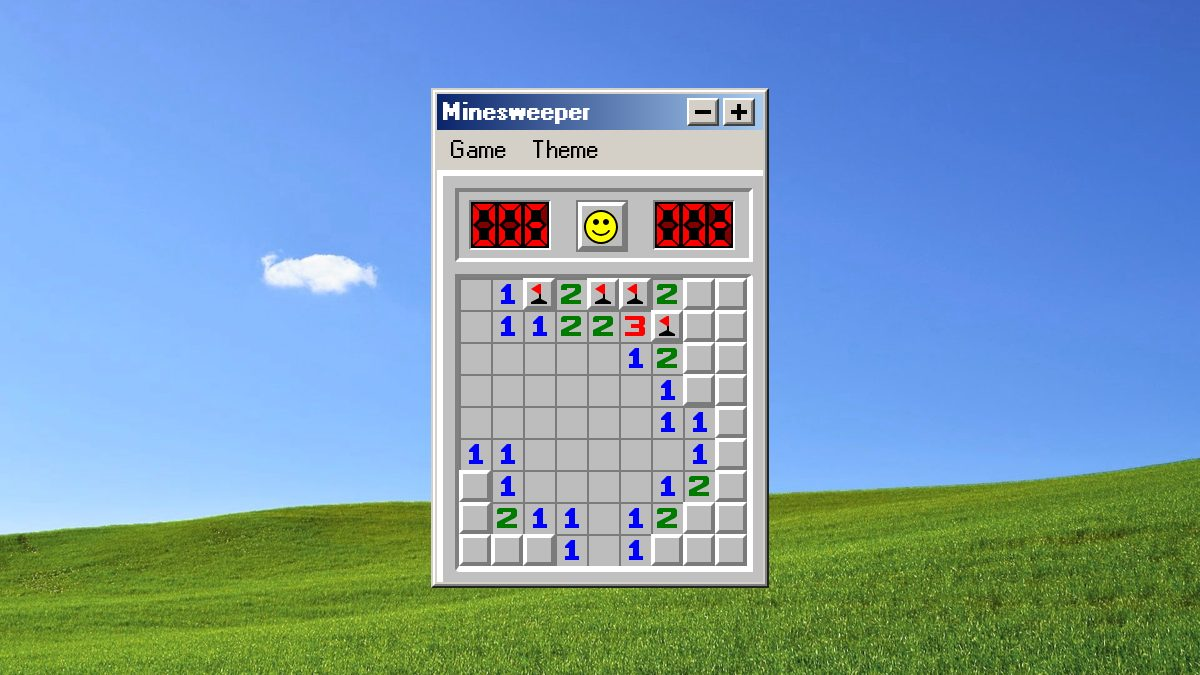
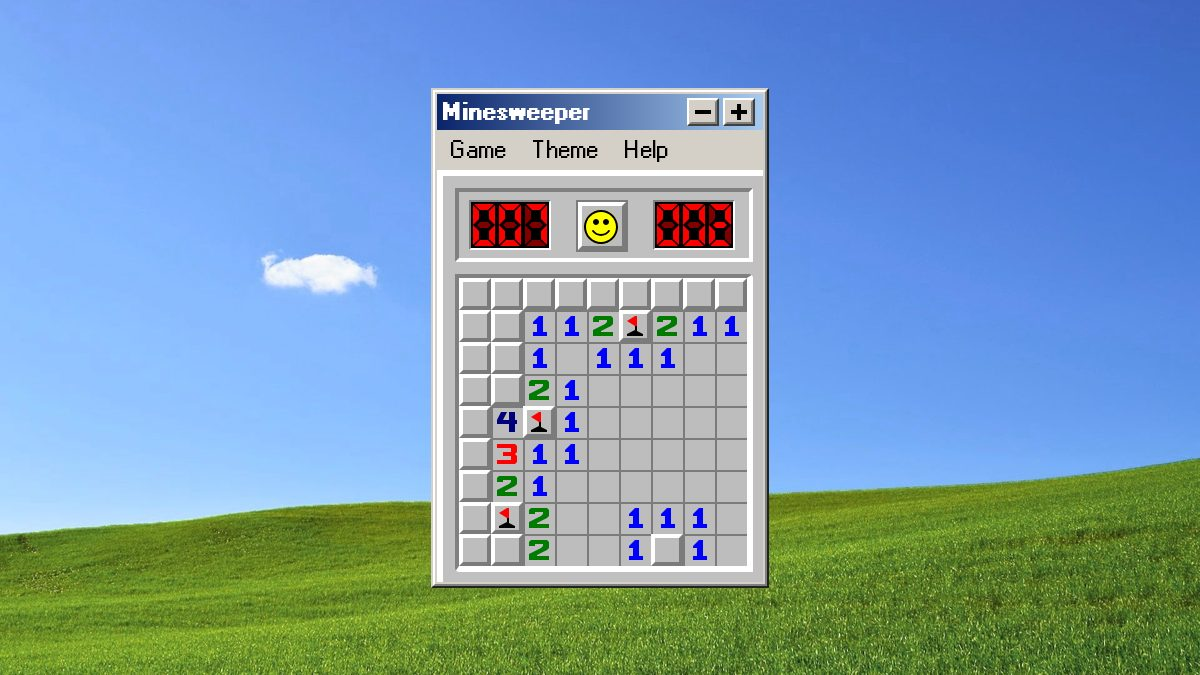
Updates

Changed region(s): [[0.37, 0.4044, 0.6475, 0.84], [0.4317, 0.3111, 0.4625, 0.3733], [0.5242, 0.2178, 0.555, 0.2489]]

diff --git a/assets/app-UHd7D_YL.js b/assets/app-UHd7D_YL.js
@@ -1,0 +1,4 @@
+//#region src/app.jsx?raw
+var app_default = "import { h } from 'hyperapp'\nimport './app.css'\nimport Game, { transposed } from './Game'\nimport Winner from './Winner'\nimport BestTime from './BestTime'\nimport CustomField from './CustomField'\nimport BackgroundSettings from './BackgroundSettings'\nimport About from './About'\nimport { placeMines } from './mines'\nimport { explainChord, findHint, noHint } from './hint'\nimport { load, save, remove } from './storage'\nimport { backgroundFor, configure, defaults, loadSettings, saveSettings } from './backgrounds'\nimport { applyZoom, fitZoom, loadZoom, measureFit, sameSize, saveZoom, stepZoom } from './zoom'\n\nconst levels = {\n  beginner: {\n    level: 'beginner',\n    width: 9,\n    height: 9,\n    mines: 10,\n  },\n  intermediate: {\n    level: 'intermediate',\n    width: 16,\n    height: 16,\n    mines: 40,\n  },\n  expert: {\n    level: 'expert',\n    width: 30,\n    height: 16,\n    mines: 99,\n  },\n  //expert grown by 30% each way at the same mine density\n  extreme: {\n    level: 'extreme',\n    width: 39,\n    height: 21,\n    mines: 169,\n  },\n}\n\nconst levelNames = Object.keys(levels)\n\nconst themes = ['classic', 'synthwave', 'solarized', 'solarized-phosphor', 'matrix', 'nord']\n\nconst createGame = ({ level, width, height, mines }) => {\n  const field = new Array(height)\n  for (let y = 0; y < height; y++) {\n    field[y] = new Array(width)\n    for (let x = 0; x < width; x++) {\n      field[y][x] = {\n        opened: false,\n        mined: false,\n        flag: false,\n        mark: false,\n        num: 0,\n      }\n    }\n  }\n  return {\n    level,\n    width,\n    height,\n    mines,\n    field,\n    left: width * height - mines,\n    pressed: false,\n    pressedX: -1,\n    pressedY: -1,\n    group: false,\n    flags: mines,\n    start: -1,\n    time: 0,\n    raf: null,\n    lose: false,\n    win: false,\n    touch: false,\n    hinted: false,\n    openedAt: { x: -1, y: -1, time: 0 },\n  }\n}\n\nconst openable = (game, x, y) => {\n  const cell = game.field[y][x]\n  if (cell.opened) {\n    let num = 0\n    for (let offsetX = -1; offsetX <= 1; offsetX++) {\n      for (let offsetY = -1; offsetY <= 1; offsetY++) {\n        const dx = offsetX + x\n        const dy = offsetY + y\n        if (dx >= 0 && dy >= 0 && dx < game.width && dy < game.height) {\n          num += game.field[dy][dx].flag ? 1 : 0\n        }\n      }\n    }\n    return num === cell.num\n  }\n  return false\n}\n\nconst revealRange = (x, y, fn) =>\n  fn(x - 1, y - 1) +\n  fn(x - 1, y + 1) +\n  fn(x + 1, y - 1) +\n  fn(x + 1, y + 1) +\n  fn(x - 1, y) +\n  fn(x + 1, y) +\n  fn(x, y - 1) +\n  fn(x, y + 1)\n\nconst customLevel = (data, defaults) => {\n  const width = Math.max(9, Math.min(40, parseInt(data.width, 10) || defaults.width))\n  const height = Math.max(9, Math.min(30, parseInt(data.height, 10) || defaults.height))\n  const mines = parseInt(data.mines, 10) || defaults.mines\n  return {\n    level: 'custom',\n    width,\n    height,\n    mines: Math.max(10, Math.min(Math.floor(width * height * 0.8), mines)),\n  }\n}\n\nconst loadLevel = () => {\n  const level = load('level')\n  if (typeof level !== 'string') return levels.beginner\n  if (levels[level]) return levels[level]\n  const data = level.split(',')\n  return customLevel({ width: data[0], height: data[1], mines: data[2] }, levels.beginner)\n}\n\nconst loadTheme = () => {\n  const theme = load('theme')\n  return themes.includes(theme) ? theme : 'classic'\n}\n\n//best times are kept apart for games played with and without hints\nconst timeKey = (level, hinted) => (hinted ? `${level}Hints` : level)\n\nconst bestTimes = (hinted) =>\n  levelNames.map((level) => {\n    const key = timeKey(level, hinted)\n    return {\n      level,\n      name: load(`${key}Name`) || 'Anonymous',\n      time: Math.min(999, parseInt(load(key), 10) || 0) || 999,\n    }\n  })\n\nconst clearBestTimes = (hinted) => {\n  levelNames.forEach((level) => {\n    const key = timeKey(level, hinted)\n    remove(key)\n    remove(`${key}Name`)\n  })\n  return bestTimes(hinted)\n}\n\nconst prevent = (event) => {\n  event.preventDefault()\n  return false\n}\n\nexport const state = {\n  menu: null,\n  hint: null,\n  game: createGame(loadLevel()),\n  marks: Boolean(load('marks')),\n  safeStart: load('safeStart') !== 'off',\n  noGuess: Boolean(load('noGuess')),\n  theme: loadTheme(),\n  winner: null,\n  bestTime: null,\n  about: false,\n  customField: null,\n  backgrounds: loadSettings(),\n  backgroundSettings: null,\n  zoom: { chosen: loadZoom(), scale: loadZoom(), seen: null },\n  portrait: Boolean(window.matchMedia && matchMedia('(orientation: portrait)').matches),\n}\n\nexport const actions = {\n  init: () => (state, actions) => {\n    window.addEventListener('keydown', actions.press)\n    if (window.matchMedia) {\n      matchMedia('(orientation: portrait)').addEventListener('change', (event) =>\n        actions.setPortrait(event.matches),\n      )\n    }\n  },\n  setPortrait: (portrait) => ({ portrait }),\n  press: (event) => (state, actions) => {\n    //leave typing in a dialog and browser shortcuts alone\n    const typing = ['INPUT', 'SELECT', 'TEXTAREA'].includes(event.target.tagName)\n    if (typing || event.ctrlKey || event.metaKey || event.altKey) return\n    if (event.keyCode === 113 || event.keyCode === 78) {\n      actions.reset()\n    } else if (event.keyCode === 72) {\n      actions.hint()\n    }\n  },\n  reset:\n    (payload) =>\n    ({ game }) => {\n      cancelAnimationFrame(game.raf)\n      const params = (payload && levels[payload.level]) || payload || game\n      save(\n        'level',\n        params.level === 'custom'\n          ? [params.width, params.height, params.mines].join()\n          : params.level,\n      )\n      return {\n        menu: null,\n        hint: null,\n        game: createGame(params),\n      }\n    },\n  hint: () => (state) => {\n    const { game } = state\n    if (game.win || game.lose) return { menu: null }\n    if (game.start < 0) {\n      return { menu: null, hint: noHint('Open a cell first, then ask for a hint.') }\n    }\n    const { field, width, height, flags } = game\n    return {\n      menu: null,\n      hint: findHint({ field, width, height, minesLeft: flags, transposed: transposed(state) }),\n      game: { ...game, hinted: true },\n    }\n  },\n  touch:\n    ({ event, x, y }) =>\n    ({ game }, actions) => {\n      if (game.win || game.lose) return null\n      const rect = event.currentTarget.getBoundingClientRect()\n      const timer = setTimeout(actions.flag, 600)\n      const move = ({ touches }) => {\n        if (\n          !touches ||\n          touches.length !== 1 ||\n          touches[0].clientX < rect.left ||\n          touches[0].clientX > rect.right ||\n          touches[0].clientY < rect.top ||\n          touches[0].clientY > rect.bottom\n        ) {\n          clearTimeout(timer)\n          actions.move({ x: -1, y: -1 })\n        }\n      }\n      const stop = ({ changedTouches }) => {\n        clearTimeout(timer)\n        window.removeEventListener('scroll', move)\n        window.removeEventListener('touchmove', move)\n        window.removeEventListener('touchend', stop)\n        window.removeEventListener('touchcancel', stop)\n        move({ touches: changedTouches })\n        actions.up()\n      }\n      window.addEventListener('scroll', move)\n      window.addEventListener('touchmove', move)\n      window.addEventListener('touchend', stop)\n      window.addEventListener('touchcancel', stop)\n      return {\n        game: {\n          ...game,\n          pressed: true,\n          pressedX: x,\n          pressedY: y,\n          group: event.shiftKey || openable(game, x, y),\n          touch: true,\n        },\n      }\n    },\n  flag:\n    () =>\n    ({ game, marks }) => {\n      const { pressedX, pressedY, field, flags } = game\n      if (pressedX < 0 || pressedY < 0) return null\n      const cell = field[pressedY][pressedX]\n      if (cell.opened) return null\n      const nextField = game.field.slice()\n      nextField[pressedY] = nextField[pressedY].slice()\n      const nextCell = {\n        ...cell,\n        flag: marks ? !cell.mark && !cell.flag : !cell.flag,\n        mark: marks && cell.flag,\n      }\n      nextField[pressedY][pressedX] = nextCell\n      const mines = cell.flag === nextCell.flag ? flags : flags + (nextCell.flag ? -1 : 1)\n      return {\n        hint: null,\n        game: {\n          ...game,\n          field: nextField,\n          flags: mines,\n          pressedX: -1,\n          pressedY: -1,\n        },\n      }\n    },\n  down:\n    ({ event, x, y }) =>\n    ({ game, marks }, actions) => {\n      if (game.touch || event.button > 2 || game.win || game.lose) return null\n      window.addEventListener('mouseup', actions.up)\n      let { field, flags } = game\n      const cell = field[y][x]\n      if (!game.pressed && event.button === 2 && !field[y][x].opened) {\n        field = field.slice()\n        field[y] = field[y].slice()\n        const nextCell = {\n          ...cell,\n          flag: marks ? !cell.mark && !cell.flag : !cell.flag,\n          mark: marks && cell.flag,\n        }\n        field[y][x] = nextCell\n        flags = cell.flag === nextCell.flag ? flags : flags + (nextCell.flag ? -1 : 1)\n      }\n      return {\n        //a new flag changes the board, so an explanation of the old one goes\n        ...(field !== game.field && { hint: null }),\n        game: {\n          ...game,\n          field,\n          pressed: event.button !== 2,\n          pressedX: x,\n          pressedY: y,\n          group: event.shiftKey || event.buttons > 2,\n          flags,\n        },\n      }\n    },\n  chord:\n    ({ x, y }) =>\n    ({ game }, actions) => {\n      if (game.win || game.lose) return null\n      if (!openable(game, x, y)) {\n        //the first click of a double click on a hidden cell just opened it, that is no failed chord\n        const { openedAt } = game\n        const fresh =\n          openedAt.x === x && openedAt.y === y && performance.now() - openedAt.time < 500\n        return fresh ? null : { hint: explainChord(game, x, y) }\n      }\n      actions.aim({ x, y })\n      actions.up()\n      return null\n    },\n  aim:\n    ({ x, y }) =>\n    ({ game }) => ({\n      game: { ...game, pressed: false, pressedX: x, pressedY: y, group: true },\n    }),\n  move:\n    ({ x, y }) =>\n    ({ game }) => {\n      if (x === game.pressedX && y === game.pressedY) return null\n      return {\n        game: {\n          ...game,\n          pressedX: x,\n          pressedY: y,\n        },\n      }\n    },\n  up:\n    () =>\n    ({ game, safeStart, noGuess }, actions) => {\n      window.removeEventListener('mouseup', actions.up)\n      const { width, height, pressedX, pressedY } = game\n      if (game.win || game.lose || pressedX < 0 || pressedY < 0) {\n        if (!game.pressed && !game.group) return null\n        return { game: { ...game, pressed: false, group: false } }\n      }\n      const field = game.field.map((row) => row.map((c) => ({ ...c })))\n      const outBounds = (x, y) => x < 0 || y < 0 || x >= width || y >= height\n      const calcNear = (x, y, fn) => {\n        let num = 0\n        for (let offsetX = -1; offsetX <= 1; offsetX++) {\n          for (let offsetY = -1; offsetY <= 1; offsetY++) {\n            if (!outBounds(offsetX + x, offsetY + y)) {\n              num += fn(field[offsetY + y][offsetX + x]) ? 1 : 0\n            }\n          }\n        }\n        return num\n      }\n\n      let { left, lose } = game\n      const reveal = (x, y) => {\n        if (outBounds(x, y)) return 0\n        const c = field[y][x]\n        if (c.opened || c.flag) return 0\n        c.opened = true\n        c.num = calcNear(x, y, (i) => i.mined)\n        if (c.mined) lose = true\n        if (c.num) return 1\n        return revealRange(x, y, reveal) + 1\n      }\n\n      //mines are only placed once a cell is actually opened\n      //a flag or chord first must not pick the start cell for safe start or no guessing\n      const begin = game.start < 0 && game.pressed && !game.group && !field[pressedY][pressedX].flag\n      if (begin) {\n        const { mined } = placeMines({\n          width,\n          height,\n          mines: game.mines,\n          x: pressedX,\n          y: pressedY,\n          safe: safeStart,\n          noGuess,\n        })\n        field.forEach((row, y) => row.forEach((c, x) => (c.mined = mined[y * width + x] === 1)))\n        game.raf = requestAnimationFrame(actions.tick)\n      }\n\n      const cell = field[pressedY][pressedX]\n      const wasOpened = cell.opened\n      let chordHint = null\n\n      if (game.group) {\n        if (cell.opened) {\n          const flags = calcNear(pressedX, pressedY, (c) => c.flag)\n          if (flags === cell.num) {\n            left -= revealRange(pressedX, pressedY, reveal)\n          } else {\n            chordHint = explainChord({ field, width, height }, pressedX, pressedY)\n          }\n        }\n      } else if (game.pressed) {\n        //on touch screens a tap on a number is the chord\n        if (game.touch && wasOpened) {\n          chordHint = explainChord({ field, width, height }, pressedX, pressedY)\n        }\n        left -= reveal(pressedX, pressedY)\n      }\n\n      const win = left <= 0\n      if (win || lose) {\n        cancelAnimationFrame(game.raf)\n        if (!lose) actions.win()\n      }\n\n      //an explanation stays until the board changes, so a click that does nothing never moves the board\n      //otherwise the second click of a double click could land on another cell\n      const changed = left !== game.left || lose || begin\n      return {\n        ...((chordHint || changed) && { hint: chordHint }),\n        game: {\n          ...game,\n          left,\n          field,\n          openedAt:\n            !wasOpened && cell.opened\n              ? { x: pressedX, y: pressedY, time: performance.now() }\n              : game.openedAt,\n          pressed: false,\n          group: false,\n          start: begin ? performance.now() : game.start,\n          time: begin ? 1 : game.time,\n          lose,\n          win,\n          touch: false,\n        },\n      }\n    },\n  tick:\n    (now) =>\n    ({ game }, actions) => {\n      game.raf = requestAnimationFrame(actions.tick)\n      const next = Math.floor((now - game.start) / 1000) + 1\n      if (game.time === next) return null\n      return { game: { ...game, time: next } }\n    },\n  win:\n    () =>\n    ({ game }) => {\n      if (game.level === 'custom') return null\n      const time = parseInt(load(timeKey(game.level, game.hinted)), 10)\n      if (time && time <= game.time) return null\n      return {\n        winner: {\n          name: 'Anonymous',\n          time: game.time,\n          level: game.level,\n          hinted: game.hinted,\n        },\n      }\n    },\n  changeWinner:\n    (payload) =>\n    ({ winner }) => ({\n      winner: { ...winner, ...payload },\n    }),\n  submitBestTime:\n    (event) =>\n    ({ winner }, actions) => {\n      event.preventDefault()\n      const key = timeKey(winner.level, winner.hinted)\n      save(key, winner.time)\n      save(`${key}Name`, winner.name.trim())\n      actions.toggleBestTime()\n      actions.setBestTimeTab(winner.hinted ? 'hinted' : 'clean')\n      return { winner: null }\n    },\n  toggleAbout:\n    () =>\n    ({ about }) => ({ menu: null, about: !about }),\n  toggleBestTime:\n    () =>\n    ({ bestTime }) => ({\n      menu: null,\n      bestTime: bestTime\n        ? null\n        : { tab: 'clean', clean: bestTimes(false), hinted: bestTimes(true) },\n    }),\n  setBestTimeTab: (tab) => (state) =>\n    state.bestTime ? { bestTime: { ...state.bestTime, tab } } : null,\n  resetBestTime:\n    () =>\n    ({ bestTime }) => ({\n      bestTime: { ...bestTime, [bestTime.tab]: clearBestTimes(bestTime.tab === 'hinted') },\n    }),\n  toggleCustomField:\n    () =>\n    ({ game, customField }) => ({\n      menu: null,\n      customField: customField\n        ? null\n        : {\n            width: String(game.width),\n            height: String(game.height),\n            mines: String(game.mines),\n          },\n    }),\n  changeCustomField:\n    (payload) =>\n    ({ customField }) => ({\n      customField: { ...customField, ...payload },\n    }),\n  submitCustomField:\n    (event) =>\n    ({ game, customField }, actions) => {\n      event.preventDefault()\n      actions.reset(customLevel(customField, game))\n      return { customField: null }\n    },\n  toggleSafeStart: () => (state) => {\n    const safeStart = !state.safeStart\n    save('safeStart', safeStart ? '' : 'off')\n    return { menu: null, safeStart }\n  },\n  toggleNoGuess: () => (state) => {\n    const noGuess = !state.noGuess\n    save('noGuess', noGuess ? 'yes' : '')\n    return { menu: null, noGuess }\n  },\n  toggleMarks: () => (state) => {\n    const marks = !state.marks\n    save('marks', marks ? 'yes' : '')\n    return {\n      menu: null,\n      marks,\n    }\n  },\n  //the dialog edits a draft that previews live, cancel puts the saved settings back\n  toggleBackgroundSettings:\n    () =>\n    ({ theme, backgrounds, backgroundSettings }) => {\n      if (backgroundSettings) {\n        configure(backgroundSettings.id, backgrounds[backgroundSettings.id])\n        return { backgroundSettings: null }\n      }\n      const id = backgroundFor(theme)\n      return { menu: null, backgroundSettings: id && { id, draft: { ...backgrounds[id] } } }\n    },\n  changeBackgroundSettings:\n    (values) =>\n    ({ backgroundSettings: { id, draft } }) => {\n      const next = { ...draft, ...values }\n      configure(id, next)\n      return { backgroundSettings: { id, draft: next } }\n    },\n  resetBackgroundSettings: () => (state, actions) =>\n    actions.changeBackgroundSettings(defaults(state.backgroundSettings.id)),\n  submitBackgroundSettings:\n    (event) =>\n    ({ backgrounds, backgroundSettings: { id, draft } }) => {\n      event.preventDefault()\n      const next = { ...backgrounds, [id]: draft }\n      saveSettings(next)\n      return { backgrounds: next, backgroundSettings: null }\n    },\n  //the zoom picked with the title bar buttons, shrunk when the window would not fit\n  //only a new level, theme or browser size refits, so zooming in past the fit can scroll\n  fit:\n    () =>\n    ({ zoom }) => {\n      const { fit, size } = measureFit(zoom.scale)\n      if (sameSize(size, zoom.seen)) return null\n      const scale = fitZoom(zoom.chosen, fit)\n      applyZoom(scale)\n      return { zoom: { ...zoom, scale, seen: size } }\n    },\n  //step in or out from the size shown, or back to 100% (which still fits the window)\n  zoom:\n    (direction) =>\n    ({ zoom }) => {\n      const { fit, size } = measureFit(zoom.scale)\n      const chosen = direction ? stepZoom(zoom.scale, direction) : 1\n      const scale = direction ? chosen : fitZoom(chosen, fit)\n      saveZoom(chosen)\n      applyZoom(scale)\n      return { zoom: { chosen, scale, seen: size } }\n    },\n  setTheme: (theme) => () => {\n    save('theme', theme)\n    document.documentElement.dataset.theme = theme\n    return {\n      menu: null,\n      theme,\n    }\n  },\n  toggleMenu:\n    (event) =>\n    ({ menu }) => {\n      const { name } = event.currentTarget.dataset\n      if (event.type === 'click') {\n        return { menu: menu && menu[name] ? null : { [name]: true } }\n      }\n      if (event.type === 'mouseenter') {\n        return menu ? { menu: { [name]: true } } : null\n      }\n      if (event.type === 'focusout' && !event.currentTarget.contains(event.relatedTarget)) {\n        return { menu: null }\n      }\n      return null\n    },\n}\n\nexport const view = (state, actions) => (\n  <main oncontextmenu={prevent} ondragstart={prevent} oncreate={actions.init}>\n    {state.game && <Game key=\"a\" state={state} actions={actions} />}\n    {state.winner && <Winner key=\"b\" state={state.winner} actions={actions} />}\n    {state.bestTime && <BestTime key=\"c\" state={state.bestTime} actions={actions} />}\n    {state.customField && <CustomField key=\"d\" state={state.customField} actions={actions} />}\n    {state.backgroundSettings && (\n      <BackgroundSettings key=\"e\" state={state.backgroundSettings} actions={actions} />\n    )}\n    {state.about && <About key=\"f\" actions={actions} />}\n  </main>\n)\n";
+//#endregion
+export { app_default as default };

diff --git a/assets/app.js b/assets/app.js
@@ -1310,6 +1310,7 @@ var rgb = (hex) => [
 var css = ([r, g, b]) => `rgb(${Math.round(r)},${Math.round(g)},${Math.round(b)})`;
 var brightness = ([r, g, b]) => Math.max(r, g, b);
 var sources = /* #__PURE__ */ Object.assign({
+	"../About.jsx": () => __vitePreload(() => import("./About-D9CbMnRN.js").then((m) => m["default"]), [], import.meta.url),
 	"../BackgroundSettings.jsx": () => __vitePreload(() => import("./BackgroundSettings-D3giHqNw.js").then((m) => m["default"]), [], import.meta.url),
 	"../BestTime.jsx": () => __vitePreload(() => import("./BestTime-Ce22rTOt.js").then((m) => m["default"]), [], import.meta.url),
 	"../Button.jsx": () => __vitePreload(() => import("./Button-C8D8-FiQ.js").then((m) => m["default"]), [], import.meta.url),
@@ -1317,13 +1318,13 @@ var sources = /* #__PURE__ */ Object.assign({
 	"../CustomField.jsx": () => __vitePreload(() => import("./CustomField-DS_mYmEf.js").then((m) => m["default"]), [], import.meta.url),
 	"../Dialog.jsx": () => __vitePreload(() => import("./Dialog-BXD_Wy5m.js").then((m) => m["default"]), [], import.meta.url),
 	"../Digit.jsx": () => __vitePreload(() => import("./Digit-B5rGRU4Q.js").then((m) => m["default"]), [], import.meta.url),
-	"../Game.jsx": () => __vitePreload(() => import("./Game-TTccPjEd.js").then((m) => m["default"]), [], import.meta.url),
+	"../Game.jsx": () => __vitePreload(() => import("./Game-rnd9BPSW.js").then((m) => m["default"]), [], import.meta.url),
 	"../Input.jsx": () => __vitePreload(() => import("./Input-BH3afC1u.js").then((m) => m["default"]), [], import.meta.url),
-	"../Menu.jsx": () => __vitePreload(() => import("./Menu-CSkFSVlA.js").then((m) => m["default"]), [], import.meta.url),
+	"../Menu.jsx": () => __vitePreload(() => import("./Menu-CM-8ws1g.js").then((m) => m["default"]), [], import.meta.url),
 	"../Overlay.jsx": () => __vitePreload(() => import("./Overlay-BtrJ3RPa.js").then((m) => m["default"]), [], import.meta.url),
 	"../Play.jsx": () => __vitePreload(() => import("./Play-DPV83WcB.js").then((m) => m["default"]), [], import.meta.url),
 	"../Winner.jsx": () => __vitePreload(() => import("./Winner-BcLjHZfV.js").then((m) => m["default"]), [], import.meta.url),
-	"../app.jsx": () => __vitePreload(() => import("./app-nchCqb_E.js").then((m) => m["default"]), [], import.meta.url),
+	"../app.jsx": () => __vitePreload(() => import("./app-UHd7D_YL.js").then((m) => m["default"]), [], import.meta.url),
 	"./hill.js": () => __vitePreload(() => import("./hill-z0PhJZqK.js").then((m) => m["default"]), [], import.meta.url),
 	"./index.js": () => __vitePreload(() => import("./backgrounds-y8fCa31h.js").then((m) => m["default"]), [], import.meta.url),
 	"./matrix.js": () => __vitePreload(() => import("./matrix-D_vYPxu0.js").then((m) => m["default"]), [], import.meta.url),
@@ -2155,6 +2156,14 @@ var Menu = ({ state, actions }) => /* @__PURE__ */ h("ul", {
 }), backgroundFor(state.theme) && /* @__PURE__ */ h(Separator, null), backgroundFor(state.theme) && /* @__PURE__ */ h(SubMenuItem, {
 	name: "Background Settings...",
 	onClick: actions.toggleBackgroundSettings
+})), /* @__PURE__ */ h(MenuItem, {
+	name: "Help",
+	type: "help",
+	active: state.menu,
+	onChange: actions.toggleMenu
+}, /* @__PURE__ */ h(SubMenuItem, {
+	name: "About Minesweeper Plus...",
+	onClick: actions.toggleAbout
 })));
 var Digit_module_default = {
 	root: "Digit_root",
@@ -2425,7 +2434,7 @@ var Cell = ({ x, y, pressed, pressedX, pressedY, group, opened, mined, flag, mar
 })));
 //#endregion
 //#region src/zoom.js
-var root$6 = document.documentElement;
+var root$7 = document.documentElement;
 var steps = [
 	.5,
 	.625,
@@ -2447,7 +2456,7 @@ var loadZoom = () => {
 };
 var stepZoom = (scale, direction) => direction > 0 ? steps.find((step) => step > scale + .001) ?? steps[steps.length - 1] : steps.findLast((step) => step < scale - .001) ?? steps[0];
 var fitZoom = (chosen, fit) => fit >= chosen ? chosen : Math.min(chosen, Math.max(MIN_FIT, Math.floor(fit * 50) / 50));
-var applyZoom = (scale) => root$6.style.setProperty("--scale", scale);
+var applyZoom = (scale) => root$7.style.setProperty("--scale", scale);
 var saveZoom = (scale) => save("scale", scale);
 var gameWindow = null;
 var measureFit = (scale) => {
@@ -2510,7 +2519,7 @@ var rowsOf = (state) => {
 };
 var Game = ({ key, state, actions }) => /* @__PURE__ */ h(Dialog, {
 	key,
-	title: "Minesweeper",
+	title: state.theme === "classic" ? "Minesweeper" : "Minesweeper Plus",
 	titleHint: "Double-click for 100% zoom",
 	onTitleDoubleClick: () => actions.zoom(0),
 	controls: /* @__PURE__ */ h(Zoom, {
@@ -2758,6 +2767,32 @@ var BackgroundSettings = ({ key, state, actions }) => {
 		onClick: actions.resetBackgroundSettings
 	}, /* @__PURE__ */ h("span", { class: BackgroundSettings_module_default.button }, "Defaults"))))));
 };
+var About_module_default = {
+	root: "About_root",
+	name: "About_name",
+	link: "About_link",
+	footer: "About_footer",
+	button: "About_button"
+};
+//#endregion
+//#region src/About.jsx
+var Link = ({ href }, children) => /* @__PURE__ */ h("a", {
+	class: About_module_default.link,
+	href,
+	target: "_blank",
+	rel: "noopener noreferrer"
+}, children);
+var About = ({ key, actions }) => /* @__PURE__ */ h(Overlay, {
+	key,
+	onKeyDown: (event) => event.keyCode === 27 && actions.toggleAbout()
+}, /* @__PURE__ */ h(Dialog, {
+	title: "About Minesweeper Plus",
+	onClose: actions.toggleAbout
+}, /* @__PURE__ */ h("div", { class: About_module_default.root }, /* @__PURE__ */ h("p", { class: About_module_default.name }, "Minesweeper Plus"), /* @__PURE__ */ h("p", null, "A Windows style minesweeper with boards that never need a guess, hints that explain their reasoning, zoom, and animated themes ported from xscreensaver."), /* @__PURE__ */ h("p", null, "Based on ", /* @__PURE__ */ h(Link, { href: "https://github.com/frenzzy/minesweeper" }, "Minesweeper"), " by Vladimir Kutepov, extended by fexofenadine."), /* @__PURE__ */ h("p", null, "Uses canvas ports of xscreensaver's GLMatrix, Substrate, Truchet and Phosphor under the xscreensaver licence, fonts under the SIL Open Font License and LGPL 2.1, photos from Unsplash and CC0 photos from Wikimedia Commons, and the SynthWave '84, Solarized and Nord colour schemes. Released under the MIT licence; full credits are in the README."), /* @__PURE__ */ h("p", null, /* @__PURE__ */ h(Link, { href: "https://github.com/fexofenadine/minesweeperplus" }, "github.com/fexofenadine/minesweeperplus")), /* @__PURE__ */ h("div", { class: About_module_default.footer }, /* @__PURE__ */ h(Button, {
+	type: "button",
+	onClick: actions.toggleAbout,
+	onCreate: (el) => el.focus()
+}, /* @__PURE__ */ h("span", { class: About_module_default.button }, "OK"))))));
 //#endregion
 //#region src/mines.js
 var neighbourCache = /* @__PURE__ */ new Map();
@@ -3154,6 +3189,7 @@ var state = {
 	theme: loadTheme(),
 	winner: null,
 	bestTime: null,
+	about: false,
 	customField: null,
 	backgrounds: loadSettings(),
 	backgroundSettings: null,
@@ -3456,6 +3492,10 @@ var actions = {
 		actions.setBestTimeTab(winner.hinted ? "hinted" : "clean");
 		return { winner: null };
 	},
+	toggleAbout: () => ({ about }) => ({
+		menu: null,
+		about: !about
+	}),
 	toggleBestTime: () => ({ bestTime }) => ({
 		menu: null,
 		bestTime: bestTime ? null : {
@@ -3613,6 +3653,9 @@ var view = (state, actions) => /* @__PURE__ */ h("main", {
 }), state.backgroundSettings && /* @__PURE__ */ h(BackgroundSettings, {
 	key: "e",
 	state: state.backgroundSettings,
+	actions
+}), state.about && /* @__PURE__ */ h(About, {
+	key: "f",
 	actions
 }));
 //#endregion

diff --git a/assets/Menu-CM-8ws1g.js b/assets/Menu-CM-8ws1g.js
@@ -1,0 +1,4 @@
+//#region src/Menu.jsx?raw
+var Menu_default = "import { h } from 'hyperapp'\nimport s from './Menu.module.css'\nimport { backgroundFor } from './backgrounds'\n\nconst SubMenuItem = ({ key, name, hotKey, checked, onClick }, children) => (\n  <li key={key} class={s.item}>\n    <button type=\"button\" class={s.option} tabindex={-1} onclick={onClick}>\n      {checked && (\n        <svg class={s.check} width=\"7\" height=\"7\">\n          <path d=\"M0 4.5L2.5 7 7 2.5V0L2.5 4.5 0 2v2.5z\" />\n        </svg>\n      )}\n      {name}\n      {hotKey && <span class={s.hotKey}>{hotKey}</span>}\n    </button>\n    {children.length > 0 && (\n      <div class={s.menu}>\n        <ul class={s.list}>{children}</ul>\n      </div>\n    )}\n  </li>\n)\n\nconst MenuItem = ({ key, name, type, active, onChange }, children) => (\n  <li key={key} class={active && active[type] ? s.columnActive : s.column}>\n    <button\n      type=\"button\"\n      class={s.button}\n      tabindex={-1}\n      data-name={type}\n      onclick={onChange}\n      onmouseenter={onChange}\n    >\n      {name}\n    </button>\n    {children.length > 0 && (\n      <div class={s.menu}>\n        <ul class={s.list}>{children}</ul>\n      </div>\n    )}\n  </li>\n)\n\nconst Separator = () => <li class={s.separator} />\n\nconst Menu = ({ state, actions }) => (\n  <ul class={s.root} tabindex={-1} onfocusout={actions.toggleMenu}>\n    <MenuItem name=\"Game\" type=\"game\" active={state.menu} onChange={actions.toggleMenu}>\n      <SubMenuItem name=\"New\" hotKey=\"F2\" onClick={() => actions.reset()} />\n      <SubMenuItem name=\"Hint\" hotKey=\"H\" onClick={() => actions.hint()} />\n      <Separator />\n      <SubMenuItem\n        name=\"Beginner\"\n        checked={state.game.level === 'beginner'}\n        onClick={() => actions.reset({ level: 'beginner' })}\n      />\n      <SubMenuItem\n        name=\"Intermediate\"\n        checked={state.game.level === 'intermediate'}\n        onClick={() => actions.reset({ level: 'intermediate' })}\n      />\n      <SubMenuItem\n        name=\"Expert\"\n        checked={state.game.level === 'expert'}\n        onClick={() => actions.reset({ level: 'expert' })}\n      />\n      <SubMenuItem\n        name=\"Extreme\"\n        checked={state.game.level === 'extreme'}\n        onClick={() => actions.reset({ level: 'extreme' })}\n      />\n      <SubMenuItem\n        name=\"Custom...\"\n        checked={state.game.level === 'custom'}\n        onClick={actions.toggleCustomField}\n      />\n      <Separator />\n      <SubMenuItem name=\"Marks (?)\" checked={state.marks} onClick={actions.toggleMarks} />\n      <SubMenuItem\n        name=\"Safe First Click\"\n        checked={state.safeStart || state.noGuess}\n        onClick={actions.toggleSafeStart}\n      />\n      <SubMenuItem name=\"No Guessing\" checked={state.noGuess} onClick={actions.toggleNoGuess} />\n      <Separator />\n      <SubMenuItem name=\"Best Times...\" onClick={actions.toggleBestTime} />\n    </MenuItem>\n    <MenuItem name=\"Theme\" type=\"theme\" active={state.menu} onChange={actions.toggleMenu}>\n      <SubMenuItem\n        name=\"Classic\"\n        checked={state.theme === 'classic'}\n        onClick={() => actions.setTheme('classic')}\n      />\n      <SubMenuItem\n        name=\"Synthwave\"\n        checked={state.theme === 'synthwave'}\n        onClick={() => actions.setTheme('synthwave')}\n      />\n      <SubMenuItem\n        name=\"Solarized Truchet\"\n        checked={state.theme === 'solarized'}\n        onClick={() => actions.setTheme('solarized')}\n      />\n      <SubMenuItem\n        name=\"Solarized Phosphor\"\n        checked={state.theme === 'solarized-phosphor'}\n        onClick={() => actions.setTheme('solarized-phosphor')}\n      />\n      <SubMenuItem\n        name=\"Matrix\"\n        checked={state.theme === 'matrix'}\n        onClick={() => actions.setTheme('matrix')}\n      />\n      <SubMenuItem\n        name=\"Nord\"\n        checked={state.theme === 'nord'}\n        onClick={() => actions.setTheme('nord')}\n      />\n      {backgroundFor(state.theme) && <Separator />}\n      {backgroundFor(state.theme) && (\n        <SubMenuItem name=\"Background Settings...\" onClick={actions.toggleBackgroundSettings} />\n      )}\n    </MenuItem>\n    <MenuItem name=\"Help\" type=\"help\" active={state.menu} onChange={actions.toggleMenu}>\n      <SubMenuItem name=\"About Minesweeper Plus...\" onClick={actions.toggleAbout} />\n    </MenuItem>\n  </ul>\n)\n\nexport default Menu\n";
+//#endregion
+export { Menu_default as default };

diff --git a/assets/Game-rnd9BPSW.js b/assets/Game-rnd9BPSW.js
@@ -1,0 +1,4 @@
+//#region src/Game.jsx?raw
+var Game_default = "import { h } from 'hyperapp'\nimport s from './Game.module.css'\nimport Dialog from './Dialog'\nimport Menu from './Menu'\nimport Digit from './Digit'\nimport Play from './Play'\nimport Cell from './Cell'\nimport Button from './Button'\nimport { watchWindow } from './zoom'\n\n//title bar zoom buttons in place of a resize grip\nconst Zoom = ({ scale, onZoom }) => [\n  <Button tabIndex={-1} title=\"Zoom out\" disabled={scale <= 0.5} onClick={() => onZoom(-1)}>\n    <svg width=\"13\" height=\"11\">\n      <path d=\"M3 5h8v2H3z\" />\n    </svg>\n  </Button>,\n  <Button tabIndex={-1} title=\"Zoom in\" disabled={scale >= 4} onClick={() => onZoom(1)}>\n    <svg width=\"13\" height=\"11\">\n      <path d=\"M6 2h2v3h3v2H8v3H6V7H3V5h3z\" />\n    </svg>\n  </Button>,\n]\n\n//a wide board on a portrait screen is shown transposed, columns as rows, so it suits the screen\n//neighbours stay neighbours, so only the view changes and cells keep their own x and y\nexport const transposed = ({ portrait, game }) => portrait && game.width > game.height\n\nconst rowsOf = (state) => {\n  const { field } = state.game\n  if (!transposed(state)) return field.map((row, y) => row.map((cell, x) => ({ cell, x, y })))\n  return field[0].map((_, x) => field.map((row, y) => ({ cell: row[x], x, y })))\n}\n\nconst Game = ({ key, state, actions }) => (\n  <Dialog\n    key={key}\n    title={state.theme === 'classic' ? 'Minesweeper' : 'Minesweeper Plus'}\n    titleHint=\"Double-click for 100% zoom\"\n    onTitleDoubleClick={() => actions.zoom(0)}\n    controls={<Zoom scale={state.zoom.scale} onZoom={actions.zoom} />}\n    onCreate={(dialog) => {\n      watchWindow(dialog, actions.fit)\n      actions.fit()\n    }}\n  >\n    <Menu state={state} actions={actions} />\n    <div class={s.root}>\n      <div class={s.scoreboard}>\n        <Digit value={state.game.flags} />\n        <Play\n          pressed={state.game.pressed}\n          lose={state.game.lose}\n          win={state.game.win}\n          onReset={actions.reset}\n        />\n        <Digit value={state.game.time} />\n      </div>\n      <div class={state.game.lose ? s.fieldLost : s.field}>\n        {rowsOf(state).map((row) => (\n          <div class={state.game.win || state.game.lose ? s.inactive : s.active}>\n            {row.map(({ cell, x, y }) => (\n              <Cell\n                x={x}\n                y={y}\n                pressed={state.game.pressed}\n                pressedX={state.game.pressedX}\n                pressedY={state.game.pressedY}\n                group={state.game.group}\n                opened={cell.opened}\n                mined={cell.mined}\n                flag={cell.flag}\n                mark={cell.mark}\n                num={cell.num}\n                hint={state.hint && state.hint.marks[y * state.game.width + x]}\n                lose={state.game.lose}\n                onDown={actions.down}\n                onMove={actions.move}\n                onTouch={actions.touch}\n                onChord={actions.chord}\n              />\n            ))}\n          </div>\n        ))}\n      </div>\n      {state.hint && (\n        <p class={s.hint} role=\"status\">\n          {state.hint.text}\n        </p>\n      )}\n    </div>\n  </Dialog>\n)\n\nexport default Game\n";
+//#endregion
+export { Game_default as default };

diff --git a/assets/About-D9CbMnRN.js b/assets/About-D9CbMnRN.js
@@ -1,0 +1,4 @@
+//#region src/About.jsx?raw
+var About_default = "import { h } from 'hyperapp'\nimport s from './About.module.css'\nimport Overlay from './Overlay'\nimport Dialog from './Dialog'\nimport Button from './Button'\n\nconst Link = ({ href }, children) => (\n  <a class={s.link} href={href} target=\"_blank\" rel=\"noopener noreferrer\">\n    {children}\n  </a>\n)\n\nconst About = ({ key, actions }) => (\n  <Overlay key={key} onKeyDown={(event) => event.keyCode === 27 && actions.toggleAbout()}>\n    <Dialog title=\"About Minesweeper Plus\" onClose={actions.toggleAbout}>\n      <div class={s.root}>\n        <p class={s.name}>Minesweeper Plus</p>\n        <p>\n          A Windows style minesweeper with boards that never need a guess, hints that explain their\n          reasoning, zoom, and animated themes ported from xscreensaver.\n        </p>\n        <p>\n          Based on <Link href=\"https://github.com/frenzzy/minesweeper\">Minesweeper</Link> by\n          Vladimir Kutepov, extended by fexofenadine.\n        </p>\n        <p>\n          Uses canvas ports of xscreensaver's GLMatrix, Substrate, Truchet and Phosphor under the\n          xscreensaver licence, fonts under the SIL Open Font License and LGPL 2.1, photos from\n          Unsplash and CC0 photos from Wikimedia Commons, and the SynthWave '84, Solarized and Nord\n          colour schemes. Released under the MIT licence; full credits are in the README.\n        </p>\n        <p>\n          <Link href=\"https://github.com/fexofenadine/minesweeperplus\">\n            github.com/fexofenadine/minesweeperplus\n          </Link>\n        </p>\n        <div class={s.footer}>\n          <Button type=\"button\" onClick={actions.toggleAbout} onCreate={(el) => el.focus()}>\n            <span class={s.button}>OK</span>\n          </Button>\n        </div>\n      </div>\n    </Dialog>\n  </Overlay>\n)\n\nexport default About\n";
+//#endregion
+export { About_default as default };

diff --git a/assets/app.css b/assets/app.css
@@ -1483,3 +1483,32 @@ main::before {
   width: 60px;
   padding: 4px 3px 3px 4px;
 }
+.About_root {
+  max-width: 340px;
+  padding: 10px 14px 12px;
+}
+
+.About_root p {
+  margin: 0 0 8px;
+  line-height: 1.35;
+}
+
+.About_name {
+  font-weight: bold;
+}
+
+.About_link {
+  color: var(--highlight);
+}
+
+.About_footer {
+  display: flex;
+  justify-content: center;
+  padding: 6px 0 0;
+}
+
+.About_button {
+  display: block;
+  min-width: 60px;
+  padding: 4px 5px 3px;
+}

diff --git a/index.html b/index.html
@@ -48,8 +48,8 @@
         document.body.append(note)
       })
     </script>
-    <script type="module" crossorigin src="./assets/app.js?v=536cdabe"></script>
-    <link rel="stylesheet" crossorigin href="./assets/app.css?v=1988d195">
+    <script type="module" crossorigin src="./assets/app.js?v=6253ef1e"></script>
+    <link rel="stylesheet" crossorigin href="./assets/app.css?v=344c7ad6">
   </head>
   <body>
     <div id="app">
